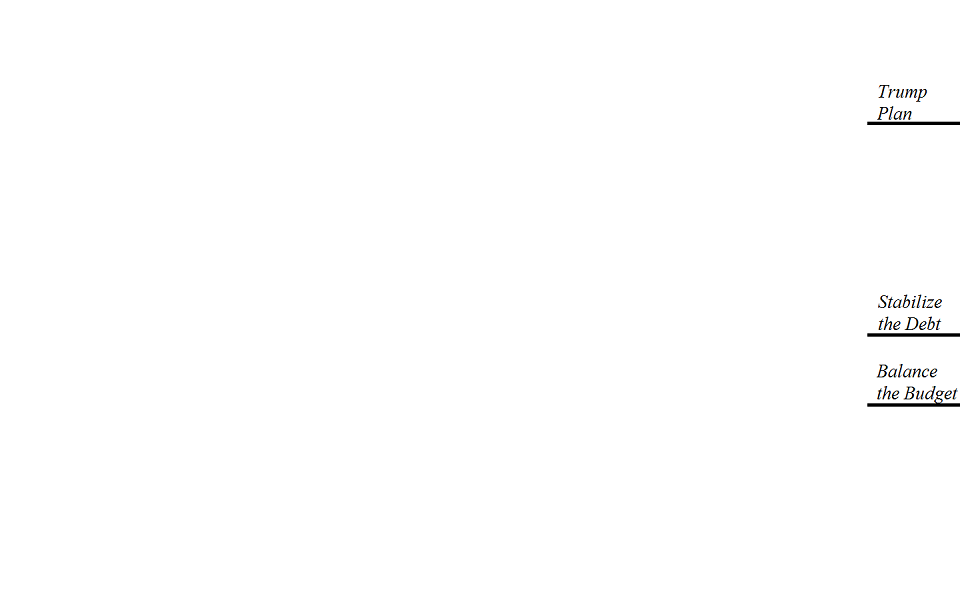
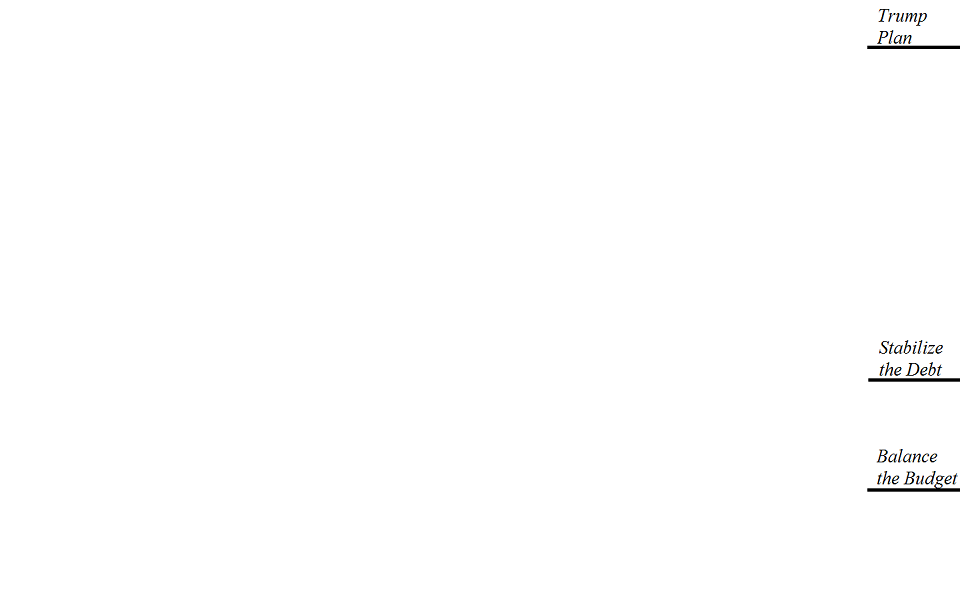
shifted chart viewport

diff --git a/debtcalc.js b/debtcalc.js
@@ -388,11 +388,11 @@ function drawChart(spendpct, taxup) {
 	},
 	vAxis: {
 	    viewWindow: {
-		min: 0.25,
-		max: 1.5
+		min: 0.5,
+		max: 1.3
 	    },
 	    format: 'percent',
-	    ticks: [0.25, 0.5, 0.75, 1, 1.25, 1.5]
+	    ticks: [0.5,0.6,0.7,0.8,0.9,1,1.1,1.2,1.3]
 	},
 	hAxis: {
 	    viewWindow: {

diff --git a/clintondata.js b/clintondata.js
@@ -44,7 +44,7 @@ var g_tax_max          =   21 * g_scale_factor;
 var g_tax_default      =    0 * g_scale_factor;
 
 /* fixed target bounds */
-var g_custom_min     = 0.25;
+var g_custom_min     = 0.50;
 var g_custom_max     = 0.87;
 var g_custom_default = 0.67;
 

diff --git a/trumpdata.js b/trumpdata.js
@@ -41,7 +41,7 @@ var g_tax_max          =   45 * g_scale_factor;
 var g_tax_default      =    0 * g_scale_factor;
 
 /* fixed target bounds */
-var g_custom_min     = 0.25;
+var g_custom_min     = 0.50;
 var g_custom_max     = 1.27;
 var g_custom_default = 0.67;
 
